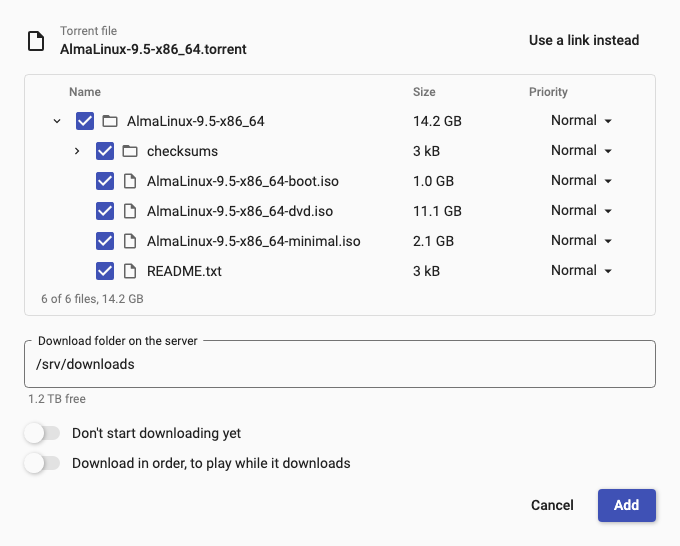
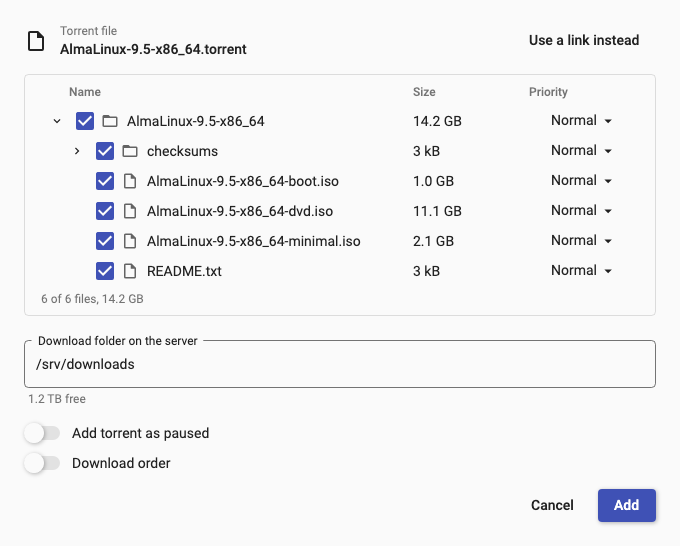
Shorter dialog texts; README rewritten; screenshots regenerated

Changed region(s): [[0.1853, 0.8407, 0.525, 0.8718], [0.0926, 0.7784, 0.3706, 0.8095]]

diff --git a/README.md b/README.md
@@ -5,7 +5,7 @@
 <h1 align="center">Synchromesh</h1>
 
 <p align="center">
-  A fast, native-feeling desktop remote for your <a href="https://transmissionbt.com">Transmission</a> server.<br>
+  A cross-platform .NET desktop client to control a <a href="https://transmissionbt.com">Transmission</a> server.<br>
   For macOS, Windows and Linux.
 </p>
 
@@ -21,31 +21,42 @@
   <img alt="Synchromesh: the torrent list with a torrent's details, and the speed graph, storage and statistics in the sidebar" src="docs/screenshots/main-light.png">
 </picture>
 
-Synchromesh runs on your computer and controls Transmission wherever it runs: a NAS, a home server, a seedbox. See
-every torrent at a glance, add new ones from a file or a magnet link, and change the server's settings, without
-opening a browser.
+Control your Transmission server from a familiar desktop client.
+Implements most of the RPC API. Currently supported: RPC 6.0.0, JSON-RPC 2.0. By default, communication uses the gzipped transport to reduce traffic.
 
-> A *synchromesh* is the part of a gearbox that matches the speeds of two gears so they mesh smoothly.
+By default, Synchromesh stores server credentials in the macOS Keychain, Windows Credential Manager or the Linux keyring.
+If desired, you can choose to store the credentials in an encrypted file, with the possibility of a master password.
+
+> A *synchromesh* is a brass ring that synchronises the speed between two different gears in a transmission.
 > Synchromesh is an independent project, not affiliated with the Transmission project.
 
 ## Features
 
-**Your torrents, live.** The list updates every two seconds and stays quick with thousands of torrents. Filter by
-status or by your own labels, search by name, and change the queue order. Start, stop, verify, re-announce, move or
-remove torrents, one at a time or many at once.
+**Torrent overview.** The overview updates every two seconds. Filter by
+status or by labels, search by name, and:
+- change the queue order
+- start
+- stop
+- verify
+- re-announce
+- move or delete torrents, one at a time or many at once.
 
-**Everything about one torrent.** The details panel shows its transfer and its trackers, the peers it's connected
-to, and its files. Choose which files to download and their priority, rename files and folders, and set the
-torrent's own speed limits, seeding goals and sequential download.
+**Torrent details.**
+The details panel shows general information, the tracker list, the peer list, the file list and per-torrent options.
 
 <picture>
   <source media="(prefers-color-scheme: dark)" srcset="docs/screenshots/files-dark.png">
   <img alt="The Files tab: a torrent's folders and files with progress, what to download and priorities" src="docs/screenshots/files-light.png">
 </picture>
 
-**Add torrents your way.** Drop a `.torrent` file on the window, paste a magnet link, or open either from your
-browser or file manager. Before the download starts, pick the files you want, their priority, the folder on the
-server, and whether to download in order so you can watch while it downloads.
+**Add torrents.**
+Synchromesh supports the following ways to add new torrents:
+- drag and drop a `.torrent` file on the window
+- paste a magnet link
+- open `.torrent` files and `magnet:` links from your browser or file manager (Synchromesh registers as their handler)
+
+Before the download starts, pick the files you want, their priority, the folder on the
+server, and whether to download in order.
 
 <p align="center">
   <picture>
@@ -54,9 +65,12 @@ server, and whether to download in order so you can watch while it downloads.
   </picture>
 </p>
 
-**The whole server, not just its torrents.** Switch between several servers. Set speed limits and flip the
-alternative-speed "turtle" with one click. Change the server's own preferences (folders, queues, seeding, peers,
-encryption, the blocklist) and check whether its port is open. The sidebar shows the total speed over the last
+**Settings.**
+Switch between several servers. Set speed limits and flip the
+alternative-speed "turtle" with one click. Modify the server's preferences (folders, queues, seeding, peers,
+encryption, the blocklist) and check whether its port is open.
+
+The sidebar shows the total speed over the last
 minutes, the free space on the server's disk, and transfer statistics.
 
 <p align="center">
@@ -66,19 +80,11 @@ minutes, the free space on the server's disk, and transfer statistics.
   </picture>
 </p>
 
-**Feels at home on your computer.**
+**Additional features.**
 - Notifications when a download finishes or a torrent runs into an error.
-- Light and dark mode that follows your system.
-- Opens `.torrent` files and magnet links handed over by your browser or file manager, in the window that's
-  already open.
+- Choose between light, dark or system theme.
 - Native menus and keyboard shortcuts.
-
-**Safe with your passwords.**
-- Server passwords go to your system's keychain: the macOS Keychain, Windows Credential Manager or the Linux
-  keyring.
-- If you'd rather not use it, or your system has none (a Steam Deck, for example), Synchromesh keeps them in its own
-  encrypted file instead, optionally locked with a master password.
-- HTTPS and client certificates are supported for servers behind a proxy.
+- HTTPS and client certificate support.
 
 ## Download
 
@@ -90,7 +96,7 @@ Get the latest version from the [releases page](https://github.com/maxxie85/sync
 | Windows 10 or 11, x64 or ARM64 | `Synchromesh-<version>-windows-<arch>-setup.exe` | Run it; it installs for your user, no administrator rights needed. |
 | Linux, x64 or ARM64 | `Synchromesh-<version>-linux-<arch>.tar.gz` | Unpack it and run `./install.sh` in the folder. |
 
-The apps aren't signed by a registered developer yet, so the first start needs one confirmation:
+The apps aren't signed yet, so the first start needs one confirmation:
 
 - **macOS** stops the app the first time. Open it once, then go to System Settings > Privacy & Security and click
   **Open Anyway**. To open `.torrent` files with it, use Get Info on a `.torrent` file in Finder > Open with >
@@ -104,8 +110,7 @@ The apps aren't signed by a registered developer yet, so the first start needs o
 ## Requirements
 
 - **Transmission 4.1 or newer** on the server, with remote access (RPC) turned on. Synchromesh speaks Transmission's
-  modern JSON-RPC 2.0 interface; older versions use a different protocol and aren't supported.
-- If you use a username and password for remote access, have them at hand for the first start.
+  modern JSON-RPC 2.0 interface; older versions use a different protocol and aren't supported as of now.
 
 ## Where your data is kept
 
